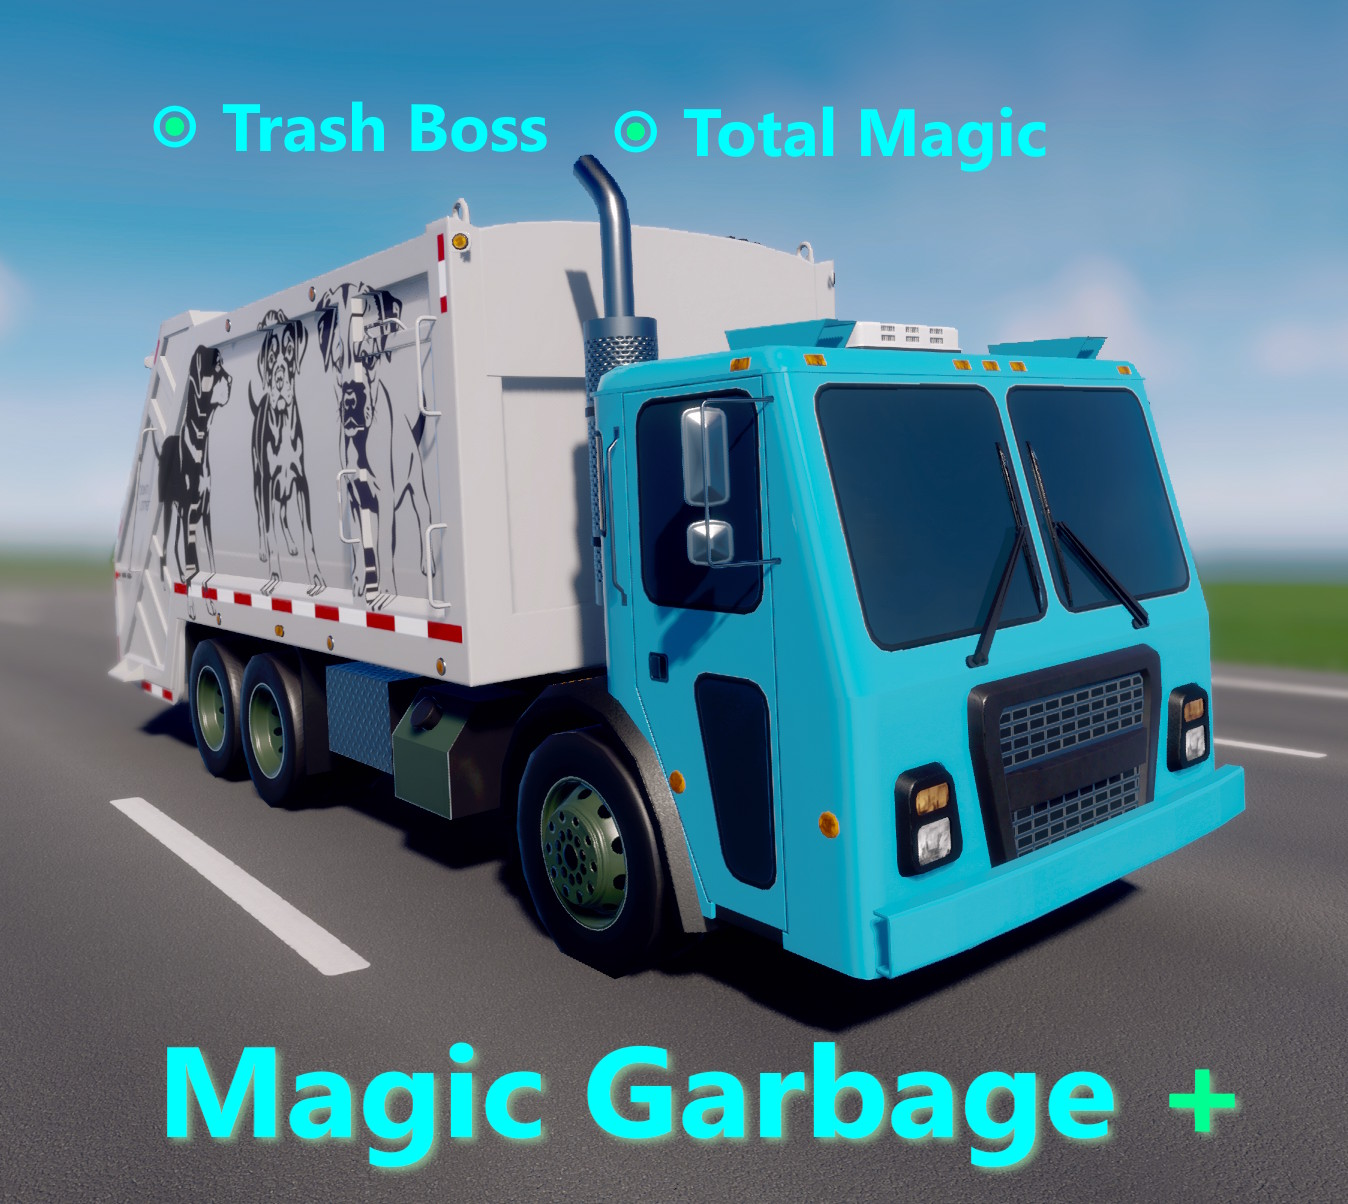
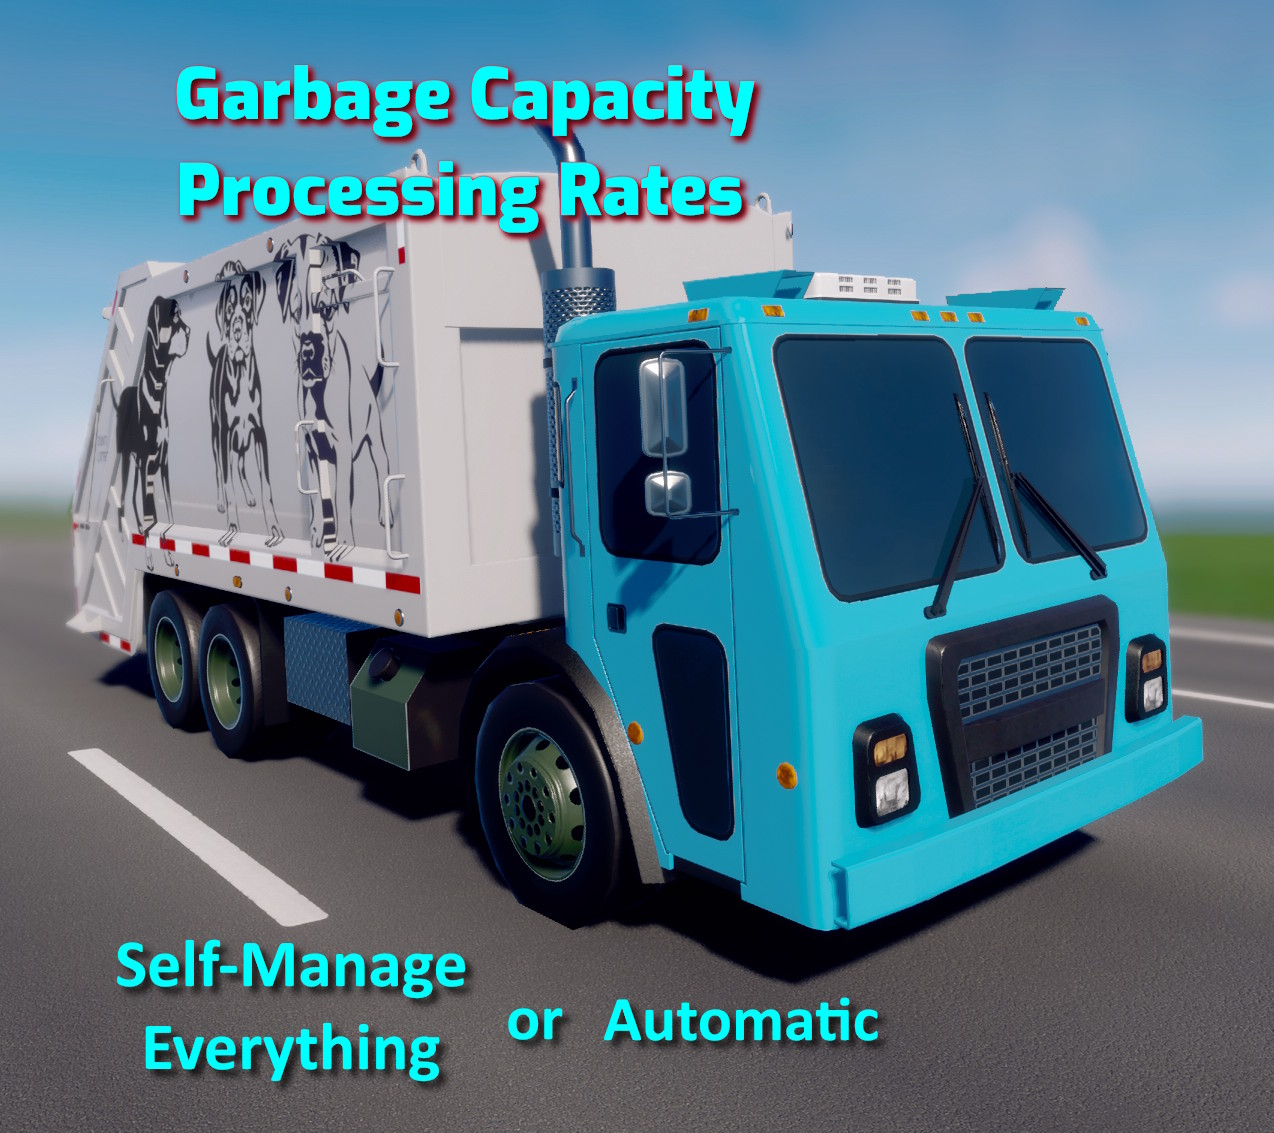
add images, EOL helpers, increase capacity of trucks

diff --git a/Scripts/CRLF2LF.py b/Scripts/CRLF2LF.py
@@ -7,19 +7,26 @@
 # ================= </copyright> ======================
 
 # File: Scripts/CRLF2LF.py
-# Version: 0.3.1
+# Version: 0.4.0
 # Purpose:
-#   Safely check/fix CRLF or mixed line endings in tracked repo text files
-#   that are supposed to be LF.
+#   Safely check/fix CRLF or mixed line endings, missing trailing newline,
+#   and UTF-8 BOM in Git-tracked repo text files that are supposed to be LF.
 #
 # Safe policy for VS2026 + GitHub:
+#   - Only Git-tracked files are scanned.
+#   - Binary-looking files are skipped.
 #   - .sln stays CRLF and is NEVER touched by this script.
 #   - .bat and .cmd stay CRLF and are NEVER touched by this script.
-#   - .slnx is treated as LF because this repo's .gitattributes says:
+#   - .slnx is treated as LF because River-Mochi repos usually set:
 #       *.slnx text eol=lf
-#   - Only Git-tracked files are considered.
-#   - Binary files are skipped.
 #   - UTF-8 BOM is removed automatically when --fix is used.
+#   - Non-empty files without a trailing LF get one appended, matching:
+#       insert_final_newline = true
+#
+# Notes:
+#   - UI/types/ is skipped because it is generated by the CS2 UI toolchain.
+#   - This script does not use .gitattributes directly. Keep the extension
+#     lists below aligned with each repo's .gitattributes.
 #
 # Usage:
 #   Check only, no writes:
@@ -38,24 +45,27 @@ from pathlib import Path
 
 UTF8_BOM = b"\xef\xbb\xbf"
 
-# Files with these exact names are LF text files.
+
+# ---------------------------------------------------------------------------
+# File policy
+# ---------------------------------------------------------------------------
+
+# Exact file names that are LF text files even though they may not have suffixes.
+# Example: Path(".editorconfig").suffix is empty, so these need name matching.
 LF_TEXT_NAMES = {
     ".editorconfig",
     ".gitattributes",
     ".gitignore",
 }
 
-# Files with these extensions are LF text files.
-# Keep this aligned with .gitattributes.
+# File extensions that should be LF.
+# Keep this aligned with the repo's .gitattributes.
 LF_TEXT_EXTENSIONS = {
     ".bash",
     ".config",
     ".cs",
     ".csproj",
     ".css",
-    ".editorconfig",
-    ".gitattributes",
-    ".gitignore",
     ".html",
     ".js",
     ".jsx",
@@ -83,15 +93,17 @@ LF_TEXT_EXTENSIONS = {
     ".yml",
 }
 
-# These are intentionally CRLF in this repo.
-# Do not "fix" them to LF.
+# These extensions intentionally remain CRLF.
+# Visual Studio still expects .sln to be CRLF, and Windows scripts should stay CRLF.
 CRLF_EXTENSIONS = {
     ".sln",
     ".bat",
     ".cmd",
 }
 
-# Extra safety for generated/local folders, even if something odd is tracked.
+# Folder names that should never be scanned.
+# This is path-part matching, so "UI/types/foo.d.ts" is skipped because one
+# path segment is exactly "types".
 SKIP_PARTS = {
     ".git",
     ".vs",
@@ -99,11 +111,22 @@ SKIP_PARTS = {
     "obj",
     "node_modules",
     "packages",
+
+    # CS2 API / create-csii-ui-mod generated declarations.
+    # These are toolchain output, not hand-written source.
+    "types",
 }
 
 
+# ---------------------------------------------------------------------------
+# Git helpers
+# ---------------------------------------------------------------------------
+
 def run_git(args: list[str], cwd: Path) -> bytes:
-    """Run a git command and return stdout."""
+    """Run a git command and return stdout.
+
+    Exits with a readable error if git is missing or the command fails.
+    """
     try:
         result = subprocess.run(
             ["git", *args],
@@ -127,24 +150,40 @@ def run_git(args: list[str], cwd: Path) -> bytes:
 
 
 def get_repo_root() -> Path:
-    """Return the Git repository root. Exit if not inside a Git repo."""
+    """Return the current Git repository root."""
     output = run_git(["rev-parse", "--show-toplevel"], Path.cwd())
     return Path(output.decode("utf-8", errors="replace").strip())
 
 
 def get_tracked_files(repo_root: Path) -> list[Path]:
-    """Return all Git-tracked files as paths relative to repo root."""
+    """Return all Git-tracked files as paths relative to the repo root.
+
+    Using git ls-files avoids accidentally rewriting untracked/generated junk.
+    The -z form safely handles filenames with spaces.
+    """
     output = run_git(["ls-files", "-z"], repo_root)
-    names = [name for name in output.decode("utf-8", errors="replace").split("\0") if name]
+    names = [
+        name
+        for name in output.decode("utf-8", errors="replace").split("\0")
+        if name
+    ]
+
     return [Path(name) for name in names]
 
 
+# ---------------------------------------------------------------------------
+# File selection
+# ---------------------------------------------------------------------------
+
 def should_skip_path(relative_path: Path) -> bool:
-    """Return true if the path should never be touched."""
+    """Return True if this path should never be touched."""
     lower_parts = {part.lower() for part in relative_path.parts}
+
+    # Skip generated/local folders anywhere in the path.
     if lower_parts & SKIP_PARTS:
         return True
 
+    # Skip intentionally-CRLF file types.
     suffix = relative_path.suffix.lower()
     if suffix in CRLF_EXTENSIONS:
         return True
@@ -153,7 +192,7 @@ def should_skip_path(relative_path: Path) -> bool:
 
 
 def is_supported_lf_text_file(relative_path: Path) -> bool:
-    """Return true if this tracked file is supposed to be LF text."""
+    """Return True if this tracked file is expected to be LF text."""
     if should_skip_path(relative_path):
         return False
 
@@ -163,15 +202,48 @@ def is_supported_lf_text_file(relative_path: Path) -> bool:
     return name in LF_TEXT_NAMES or suffix in LF_TEXT_EXTENSIONS
 
 
+def looks_binary(data: bytes) -> bool:
+    """Very simple binary guard.
+
+    Text files should not contain NUL bytes. This is intentionally conservative.
+    """
+    return b"\0" in data
+
+
+# ---------------------------------------------------------------------------
+# Normalization
+# ---------------------------------------------------------------------------
+
 def normalize_to_lf_and_remove_bom(data: bytes) -> bytes:
-    """Remove UTF-8 BOM, then normalize CRLF/mixed endings to LF."""
+    """Remove UTF-8 BOM, then normalize CRLF or mixed endings to LF."""
     if data.startswith(UTF8_BOM):
         data = data[len(UTF8_BOM):]
 
+    # Order matters:
+    #   CRLF -> LF first, then any stray CR -> LF.
     return data.replace(b"\r\n", b"\n").replace(b"\r", b"\n")
 
 
-def main() -> int:
+def ensure_final_newline(data: bytes) -> bytes:
+    """Append a trailing LF when a non-empty file is missing one."""
+    if not data or data.endswith(b"\n"):
+        return data
+
+    return data + b"\n"
+
+
+def normalize_text_file(data: bytes) -> bytes:
+    """Apply all safe text normalizations used by this script."""
+    data = normalize_to_lf_and_remove_bom(data)
+    data = ensure_final_newline(data)
+    return data
+
+
+# ---------------------------------------------------------------------------
+# Main
+# ---------------------------------------------------------------------------
+
+def parse_args() -> argparse.Namespace:
     parser = argparse.ArgumentParser(
         description="Safely check/fix LF endings for supported Git-tracked text files."
     )
@@ -179,12 +251,16 @@ def main() -> int:
     parser.add_argument(
         "--fix",
         action="store_true",
-        help="Rewrite supported LF text files that have CRLF, mixed endings, or UTF-8 BOM.",
+        help="Rewrite supported LF text files that have CRLF, mixed endings, missing final LF, or UTF-8 BOM.",
     )
 
-    args = parser.parse_args()
+    return parser.parse_args()
 
+
+def main() -> int:
+    args = parse_args()
     write_files = args.fix
+
     repo_root = get_repo_root()
     tracked_files = get_tracked_files(repo_root)
 
@@ -203,12 +279,11 @@ def main() -> int:
             print(f"WARNING: Could not read {relative_path}: {ex}", file=sys.stderr)
             continue
 
-        # Very simple binary guard.
-        if b"\0" in original_data:
+        if looks_binary(original_data):
             skipped_binary.append(relative_path)
             continue
 
-        new_data = normalize_to_lf_and_remove_bom(original_data)
+        new_data = normalize_text_file(original_data)
 
         if new_data == original_data:
             continue
@@ -218,22 +293,30 @@ def main() -> int:
         if write_files:
             full_path.write_bytes(new_data)
 
+    print_report(changed, skipped_binary, write_files)
+
+    # In check-only mode, changed files should fail the command so CI/scripts can detect it.
+    return 1 if changed and not write_files else 0
+
+
+def print_report(changed: list[Path], skipped_binary: list[Path], write_files: bool) -> None:
+    """Print a clear check/fix summary."""
     if write_files:
         if changed:
-            print("Fixed LF line endings and/or UTF-8 BOM:")
+            print("Fixed line endings, final newline, and/or UTF-8 BOM:")
             for path in changed:
                 print(f"  {path.as_posix()}")
         else:
-            print("No LF line-ending or UTF-8 BOM fixes needed.")
+            print("No line-ending, final-newline, or UTF-8 BOM fixes needed.")
     else:
         if changed:
-            print("These supported LF files need line-ending and/or UTF-8 BOM fixes:")
+            print("These supported LF files need line-ending, final-newline, and/or UTF-8 BOM fixes:")
             for path in changed:
                 print(f"  {path.as_posix()}")
             print()
             print("No files were changed. Run with --fix to write changes.")
         else:
-            print("No LF line-ending or UTF-8 BOM fixes needed.")
+            print("No line-ending, final-newline, or UTF-8 BOM fixes needed.")
 
     if skipped_binary:
         print()
@@ -241,8 +324,7 @@ def main() -> int:
         for path in skipped_binary:
             print(f"  {path.as_posix()}")
 
-    return 1 if changed and not write_files else 0
-
 
 if __name__ == "__main__":
     raise SystemExit(main())
+    

diff --git a/Settings/Setting.cs b/Settings/Setting.cs
@@ -167,7 +167,7 @@ namespace MagicGarbage
         // TRASH BOSS STANDARD SLIDERS
         // --------------------------------------------------------
 
-        [SettingsUISlider(min = 100, max = 500, step = 10, scalarMultiplier = 1, unit = Unit.kPercentage)]
+        [SettingsUISlider(min = 100, max = 1000, step = 10, scalarMultiplier = 1, unit = Unit.kPercentage)]
         [SettingsUISection(ActionsTab, TrashBossGrp)]
         [SettingsUIHideByCondition(typeof(Setting), nameof(TrashBossEnabled), true)]
         [SettingsUISetter(typeof(Setting), nameof(OnTruckSliderChanged))]

diff --git a/Systems/GarbageTruckCapacitySystem.cs b/Systems/GarbageTruckCapacitySystem.cs
@@ -89,7 +89,7 @@ namespace MagicGarbage
             int targetMult = 100;
             if (!setting.TotalMagic && setting.TrashBossEnabled)
             {
-                targetMult = math.clamp(setting.GarbageTruckCapacityMultiplier, 100, 500);
+                targetMult = math.clamp(setting.GarbageTruckCapacityMultiplier, 100, 1000);
             }
 
             foreach ((RefRW<GarbageTruckData> truck, Entity prefabEntity) in SystemAPI